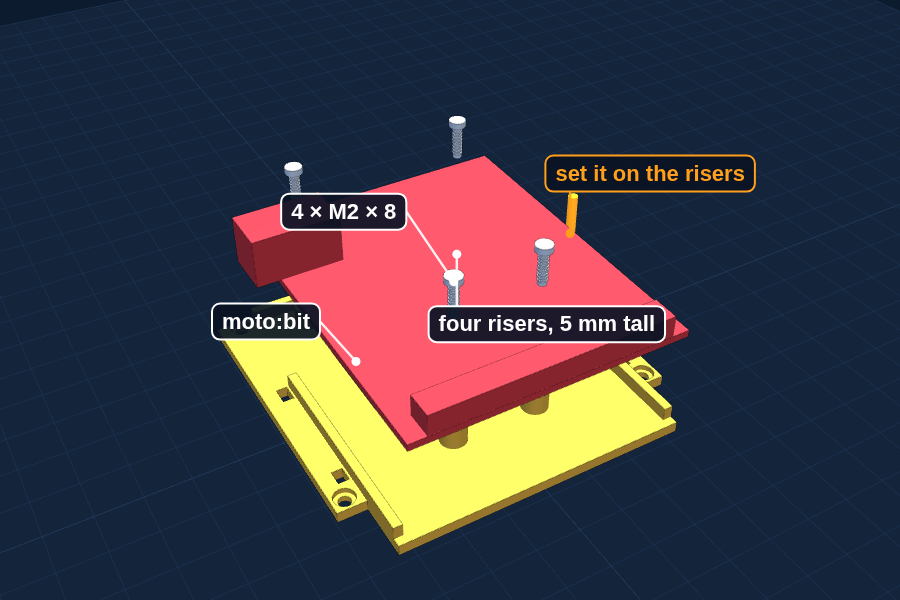
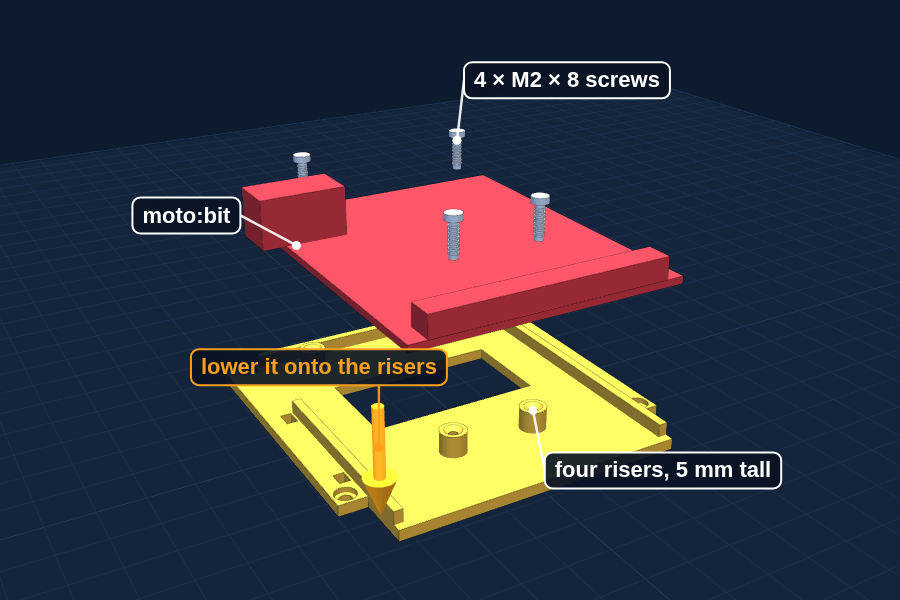
Dusty Build Guide: Batch 3 check picture shows the moto:bit lowering onto the four risers (MOC-007)
Claude-Session: https://claude.ai/code/session_014yMfyLiZkSVTw5M325dVQp

Changed region(s): [[0.1244, 0.09, 0.8711, 0.93]]

diff --git a/tools/dusty-howto/make_scenes.py b/tools/dusty-howto/make_scenes.py
@@ -296,15 +296,15 @@ scene('b2-s4', ms, arrows=arrows,
 # Batch 3 step 1: moto:bit sits on the four risers (MOC-007), screws go down through its holes
 mb = GH['moto:bit']
 RIS = [(-20.0, 106.32), (20.0, 106.32), (-10.0, 56.32), (10.0, 56.32)]
-lift = 20
+lift = 32
 ms = [mesh(PR['deck'], COL['deck']), mesh(moved(mb, [0, 0, lift]), BOARD)]
 for (x, y) in RIS:
-    ms.append(mesh(screw(8, [x, y, 74.6 + lift + 6], [0, 0, -1]), STEEL))
+    ms.append(mesh(screw(8, [x, y, 74.6 + lift + 5], [0, 0, -1]), STEEL))
 scene('b3-s1', ms,
-      arrows=[A([34, 80, 100], [34, 80, 80])],
-      labels=[L([34, 80, 90], 'set it on the risers', 80, -60, ORANGE), L([-29, 60, 74.6 + lift], 'moto:bit', -90, -40),
-              L([20, 106.3, 73], 'four risers, 5 mm tall', 90, 70), L([-10, 56.3, 74.6 + lift + 14], '4 × M2 × 8', -110, -70)],
-      az=-30, el=38, zoom=1.0)
+      arrows=[A([-40, 30, 100], [-40, 30, 78])],
+      labels=[L([-40, 30, 92], 'lower it onto the risers', -60, -80, ORANGE), L([-29, 90, 74.6 + lift], 'moto:bit', -110, -30),
+              L([10, 56.3, 72], 'four risers, 5 mm tall', 130, 60), L([20, 106.3, 74.6 + lift + 12], '4 × M2 × 8 screws', 110, -60)],
+      az=-30, el=24, zoom=1.0)
 
 # Batch 3 step 2: power bank into the sleeve, then the keeper bar
 bank = GH['power bank']; slv = PR['sleeve']; kp = PR['keeper']
